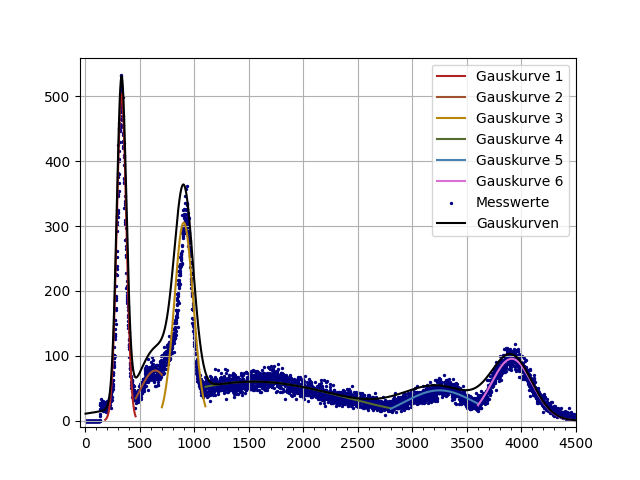
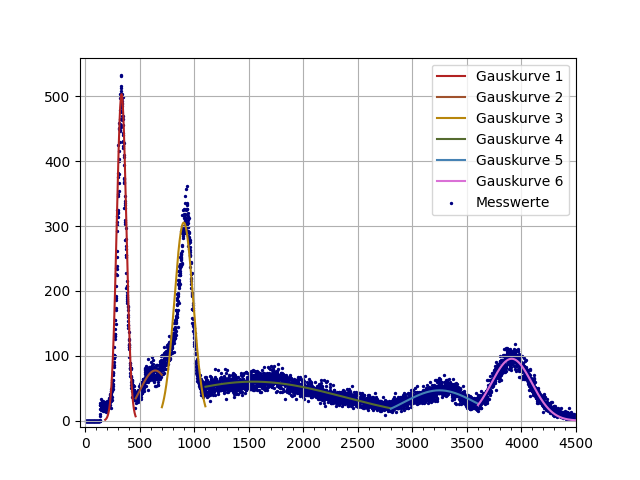
modified:   521/ Testspektrum 2.png 	new file:   521/Messungen/Oszi/scope_0.png 	new file:   521/Messungen/Oszi/scope_1.png 	new file:   521/Messungen/Oszi/scope_2.png 	new file:   521/Messungen/Oszi/scope_3.png 	modified:   521/vorbereitung 2.py

diff --git a/521/vorbereitung 2.py b/521/vorbereitung 2.py
@@ -45,11 +45,11 @@ for i in range(len(Farbe)):
     TempxData = np.where((xData > Fenster[2*i+1]) | (xData < Fenster[2*i]), 0, xData)
     TempyData = np.where((xData > Fenster[2*i+1]) | (xData < Fenster[2*i]), 0, yData)
     out = gausfit(gaus, xData[Fenster[2*i]:Fenster[2*i+1]], yData[Fenster[2*i]:Fenster[2*i+1]], Farbe[i], Beta[i], f'Gauskurve {i+1}')
-    yWerte = yWerte + gaus(out, xData)
+    # yWerte = yWerte + gaus(out, xData)
 
 
 plt.scatter(xData, yData, s=2, c='navy', label='Messwerte')
-plt.plot(xData, yWerte, c='black', label='Gauskurven' )
+# plt.plot(xData, yWerte, c='black', label='Gauskurven' )
 plt.legend()
 plt.set_xticks(np.linspace(0, 8000, 17))
 plt.set_xticks(np.linspace(0, 8000, 81), minor=True, alpha=0.3)
